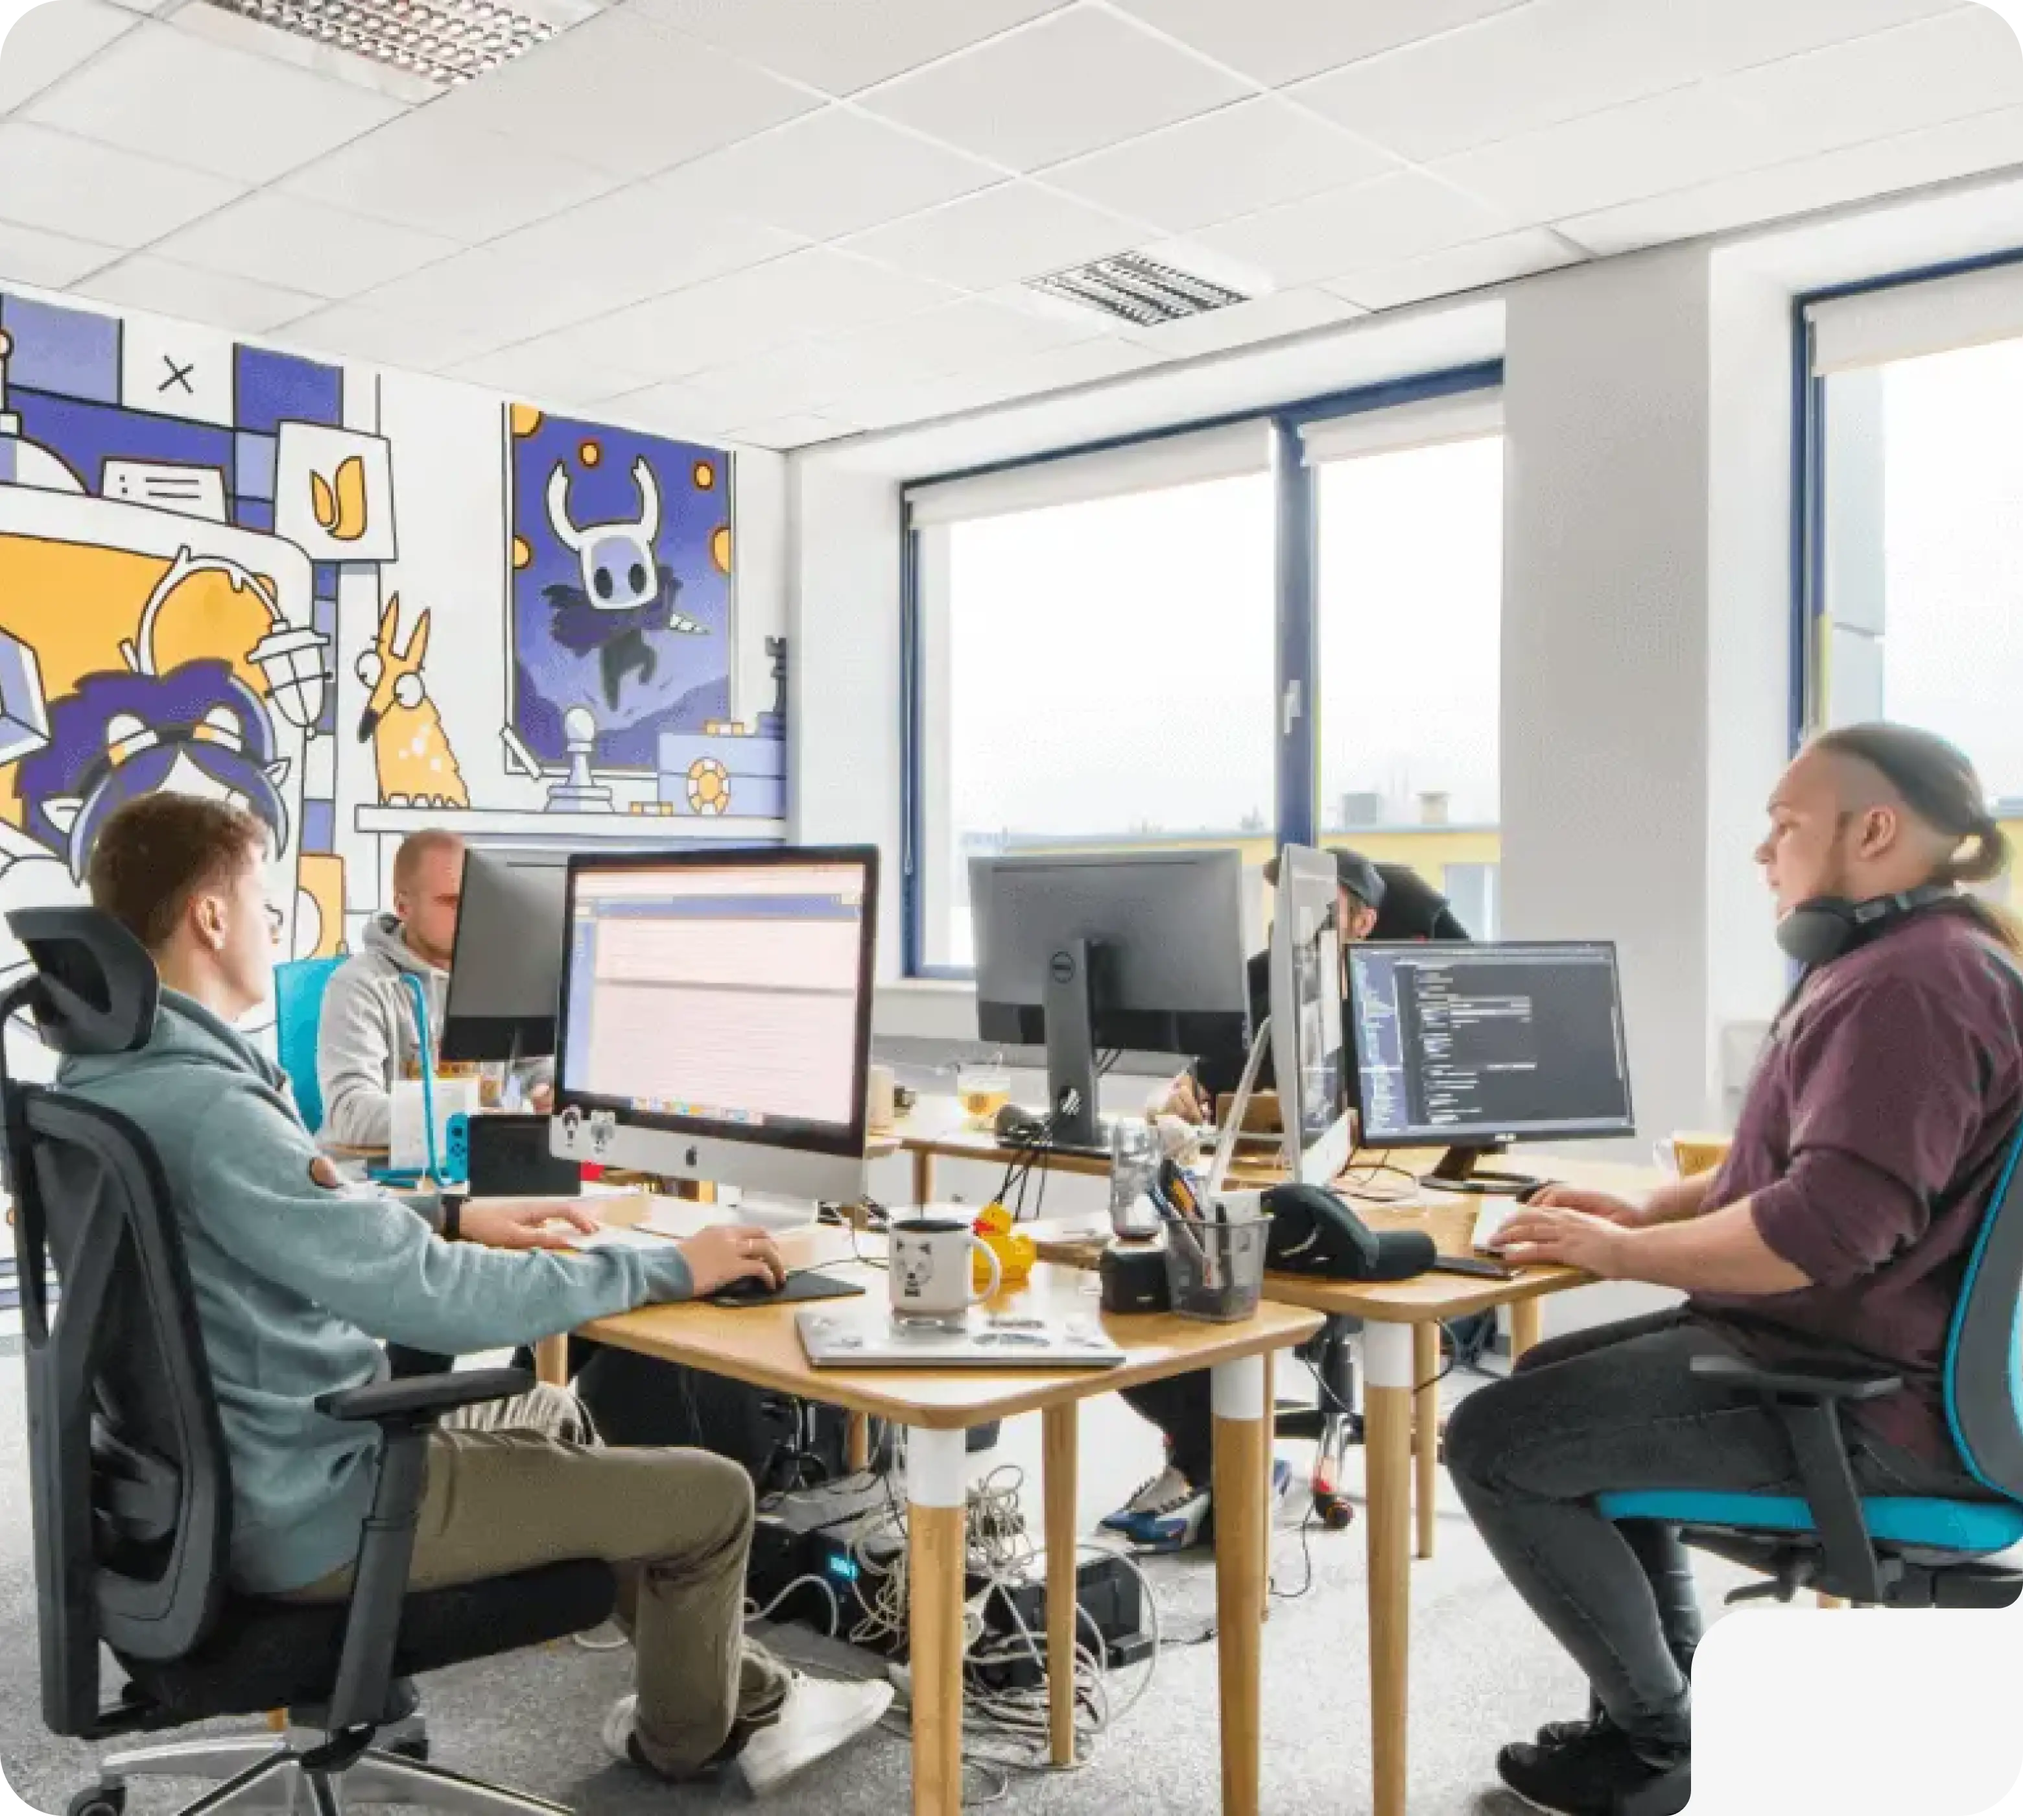
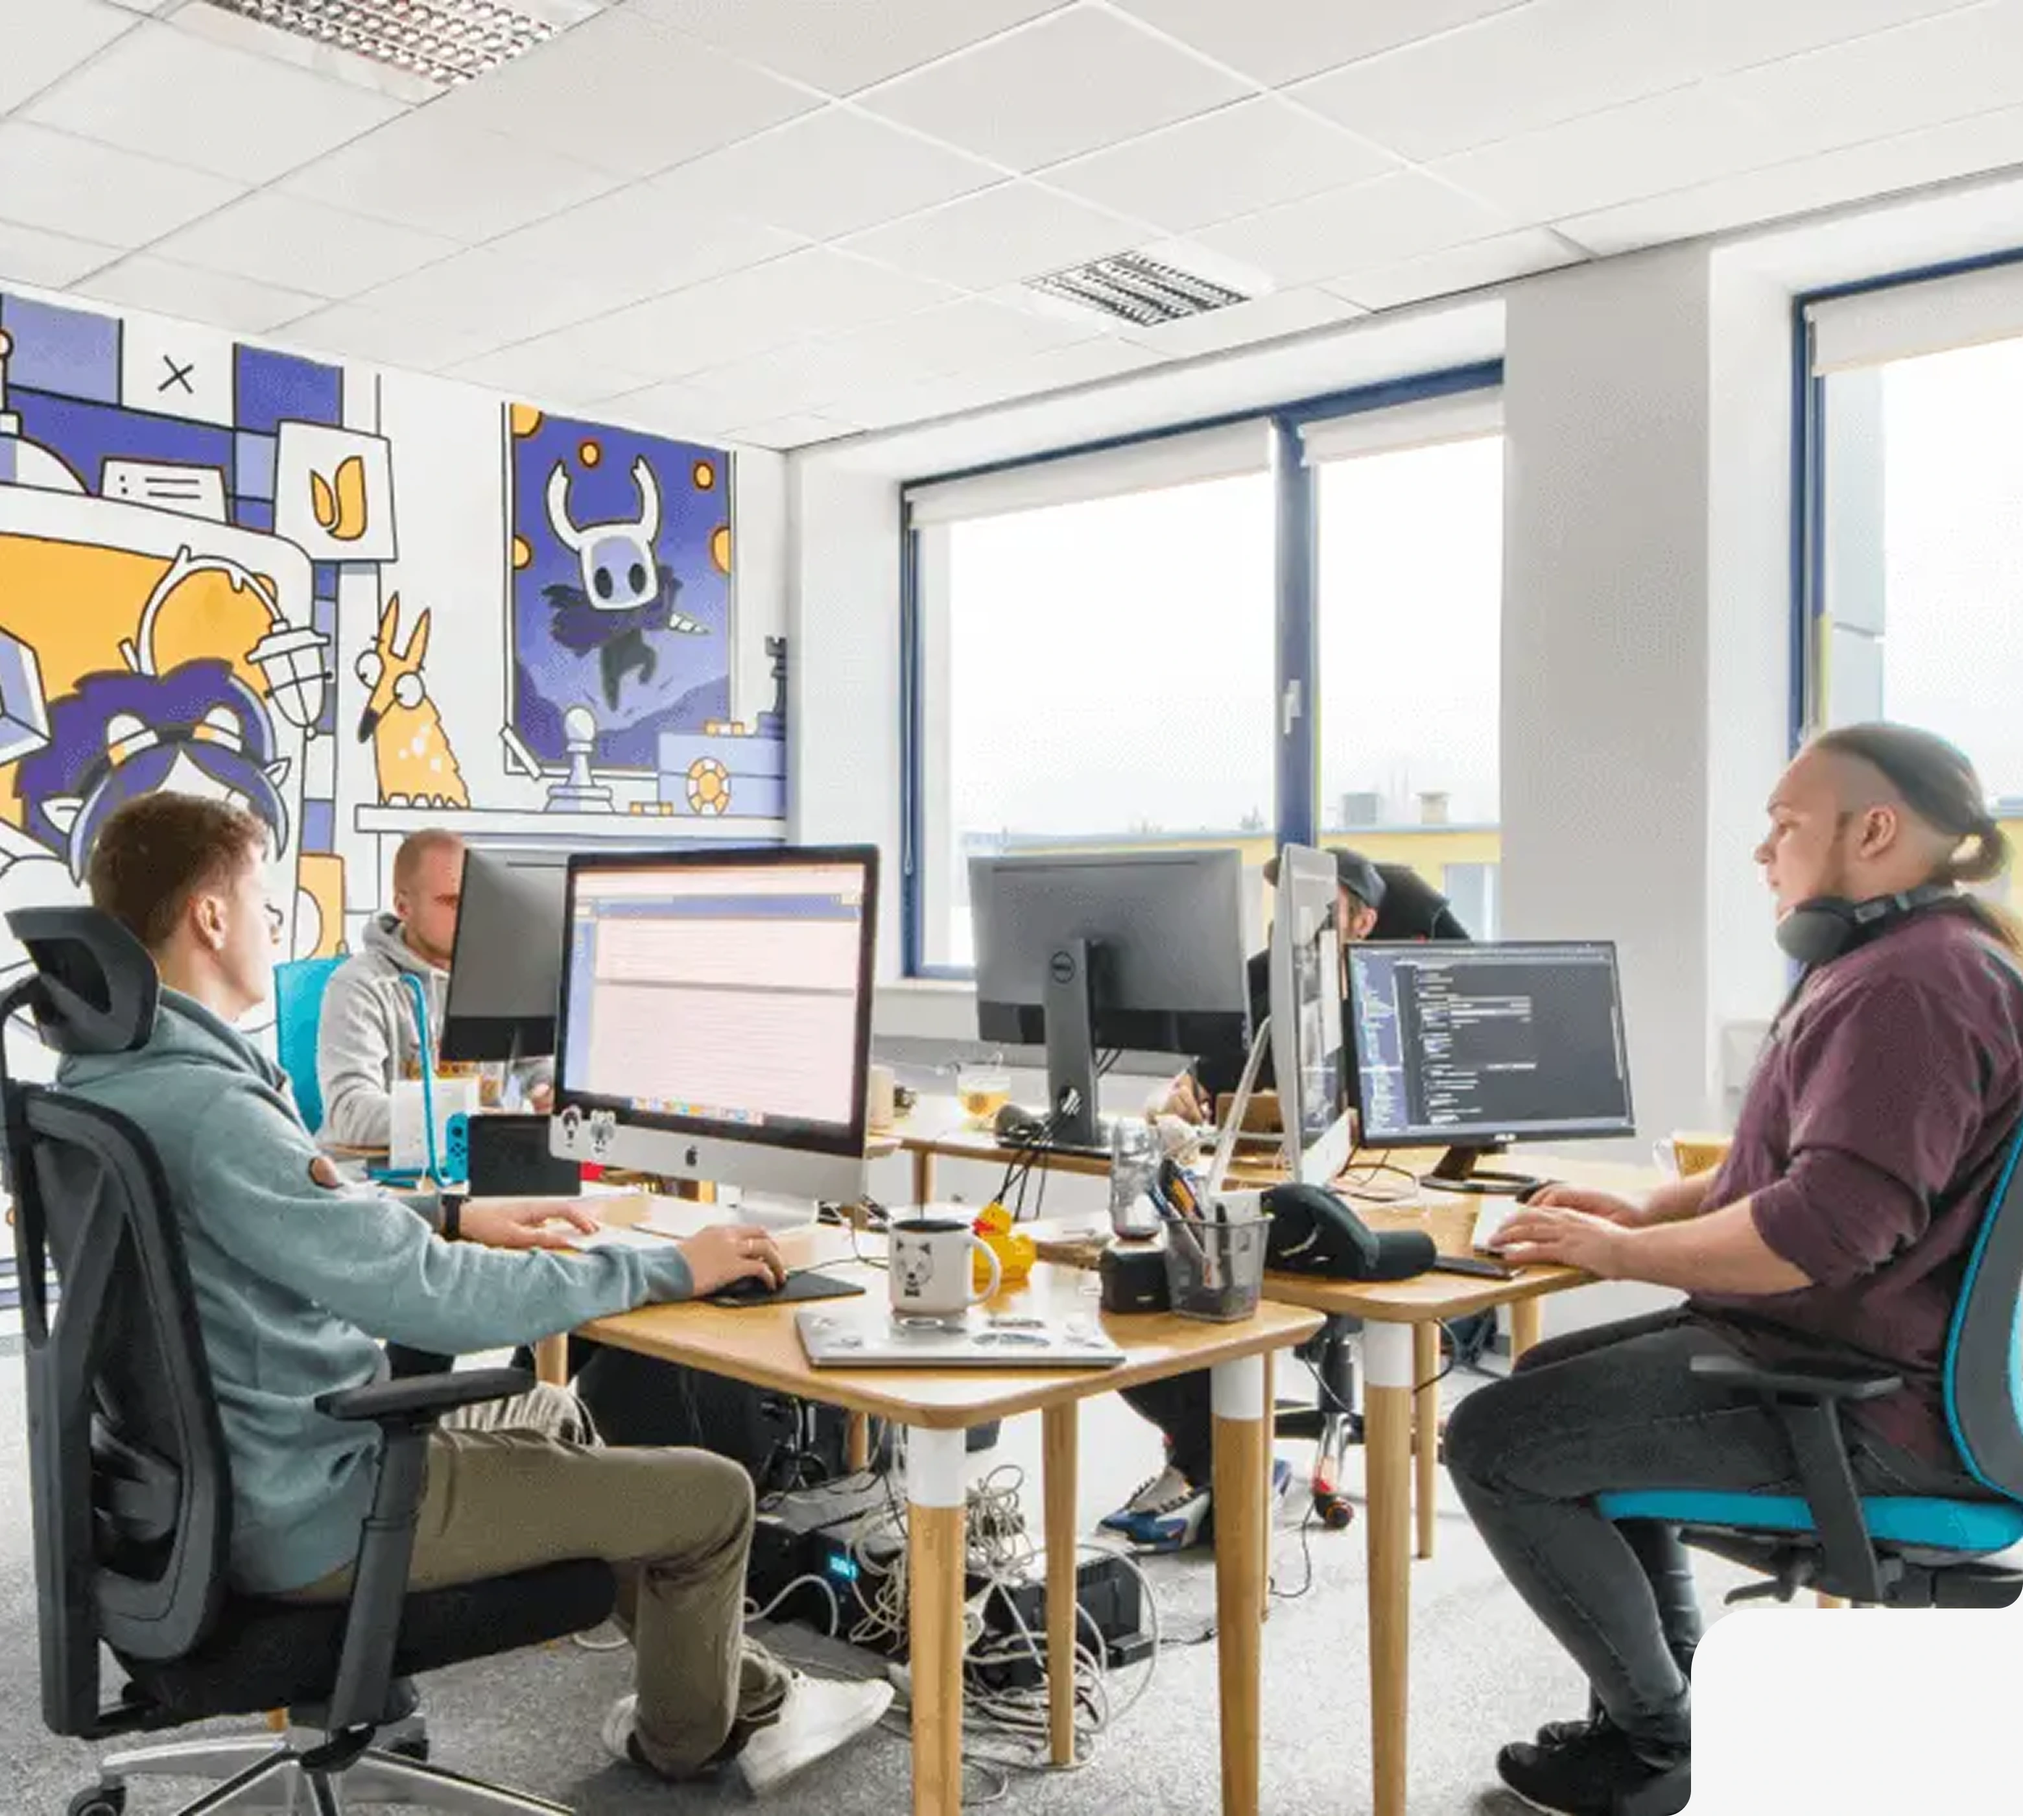
image changes

diff --git a/Optra Seven/css/shihab.css b/Optra Seven/css/shihab.css
@@ -1211,6 +1211,7 @@
     max-width: 780px;
     height: auto;
     display: block;
+    border-radius: 25px;
 }
 
 .o7-our-culture-card-wrapper {
@@ -1310,8 +1311,8 @@
 }
 
 .elastic-button:hover {
- background-color: #202020;
- color: #F5F5F5;
+    background-color: #202020;
+    color: #F5F5F5;
 }
 
 .elastic-button:hover .fee-icon {
@@ -1331,6 +1332,7 @@
     }
 
     .o7-card__header {
+        max-width: 315px;
         font-size: 24px;
     }
 
@@ -1363,8 +1365,12 @@
     .o7-card {
         padding: 30px;
         min-height: 300px;
+        align-items: center;
     }
 
+    .o7-card__left--align {
+        align-items: flex-start;
+    }
 }
 
 @media (max-width: 1200px) {
@@ -1439,11 +1445,6 @@
         border-radius: 16px;
         min-height: 220px;
         gap: 15px;
-        align-items: center;
-    }
-
-    .o7-card__left--align {
-        align-items: flex-start;
     }
 
     .o7-card__header {
@@ -1468,6 +1469,7 @@
 
     .o7-content-image {
         max-width: 94%;
+        border-radius: 16px;
     }
 
     .o7-section-header__title--small {
@@ -1513,11 +1515,6 @@
         max-width: 450px;
         min-height: 250px;
         gap: 15px;
-        align-items: center;
-    }
-
-    .o7-card__left--align {
-        align-items: flex-start;
     }
 
     .o7-card__header {
